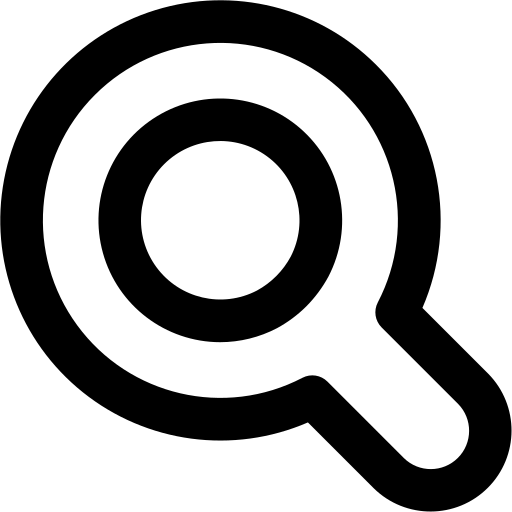
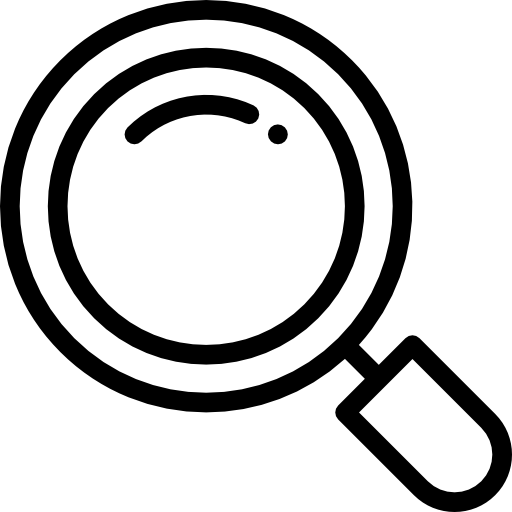
feat: visual criado e chamada da api

diff --git a/index.html b/index.html
@@ -1,12 +1,64 @@
 <!DOCTYPE html>
 <html lang="pt-BR">
-<head>
-    <meta charset="UTF-8">
-    <meta name="viewport" content="width=device-width, initial-scale=1.0">
+  <head>
+    <meta charset="UTF-8" />
+    <meta name="viewport" content="width=device-width, initial-scale=1.0" />
     <title>Clima Mundo</title>
-    <link rel="stylesheet" href="style.css">
-</head>
-<body>
+    <link rel="stylesheet" href="style.css" />
+  </head>
+  <body>
+    <!-- quebra de linha automatica alt z -->
+    <div class="card">
+
+      <div class="search">
+        <input
+          type="text"
+          placeholder="Coloque o nome da cidade"
+          spellcheck="false"
+        />
+        <button><img src="assets/searching_5251636.png" /></button>
+      </div>
+
+      <div class="weather">
+        <img src="assets/rainy-day_10961114.png" class="weather-icon" />
+        <h1 class="temp">22°C</h1>
+        <h2 class="city">Novo Mexico</h2>
+        <div class="details">
+            <div class="col">
+                <img src="assets/drop_1715910.png">
+                <div>
+                    <p class="humidity">50%</p>
+                    <p>Humidade do ar</p>
+                </div>
+            </div>
+            <div class="col">
+                <img src="assets/wind_8504423.png">
+                <div>
+                    <p class="wind">15 km/h</p>
+                    <p>Vento</p>
+                </div>
+            </div>
+        </div>
+      </div>
+
+    </div>
+
+
+    <script>
+        // pegando os parametros da api
+        const apiKey = "dfc2b2d29aeb446ebd4ded655bc8d383";
+        const apiUrl = "https://api.openweathermap.org/data/2.5/weather?units=metric&q=berlin";
+
+        // funcao que vai usar os parametros da api
+        async function checkWeather(){
+            const response = await fetch(apiUrl + `&appid=${apiKey}`);
+            var data = await response.json();
+
+            console.log(data);
+        }
+
+        checkWeather();
+    </script>
     
-</body>
+  </body>
 </html>

diff --git a/style.css b/style.css
@@ -4,3 +4,90 @@
     font-family: 'Poppins', sans-serif;
     box-sizing: border-box;
 }
+
+body {
+    background: #222;
+}
+
+/* ajuste de tamanho do card principal   control ; */
+.card {
+    width: 90%;
+    max-width: 470px;
+    background: linear-gradient(135deg, #00feba, #5b548a);
+    color: #fff;
+    margin: 100px auto 0;
+    border-radius: 20px;
+    padding: 40px 35px;
+    text-align: center;
+}
+
+.search {
+    width: 100%;
+    display: flex;
+    align-items: center;
+    justify-content: space-between;
+}
+/* estilizando a barra de pesquisa */
+.search input {
+    border: 0;
+    outline: 0;
+    background: #ebfffc;
+    color: #555;
+    padding: 10px 25px;
+    height: 60px;
+    border-radius: 30px;
+    flex: 1;
+    margin-right: 16px;
+    font-size: 18px;
+}
+
+/* estilizando o botao de pesquisa */
+.search button {
+    border: 0;
+    outline: 0;
+    background: #ebfffc;
+    border-radius: 50%;
+    width: 60px;
+    height: 60px;
+    cursor: pointer;
+}
+.search button img{
+    width: 16px;
+}
+
+/* estilizando os icones */
+.weather-icon{
+    width: 170px;
+    margin-top: 30px;
+}
+.weather h1 {
+    font-size: 80px;
+    font-weight: 500;
+}
+.weather h2 {
+    font-size: 45px;
+    font-weight: 400;
+    margin-top: -10px;
+}
+
+/* organizando a parte de baixo */
+.details {
+    display: flex;
+    align-items: center;
+    justify-content: space-between;
+    padding: 0 20px;
+    margin-top: 50px;
+}
+.col {
+    display: flex;
+    align-items: center;
+    text-align: left;
+}
+.col img {
+    width: 40px;
+    margin-right: 10px;
+}
+.humidity, .wind {
+    font-size: 28px;
+    margin-top: -6px;
+}
